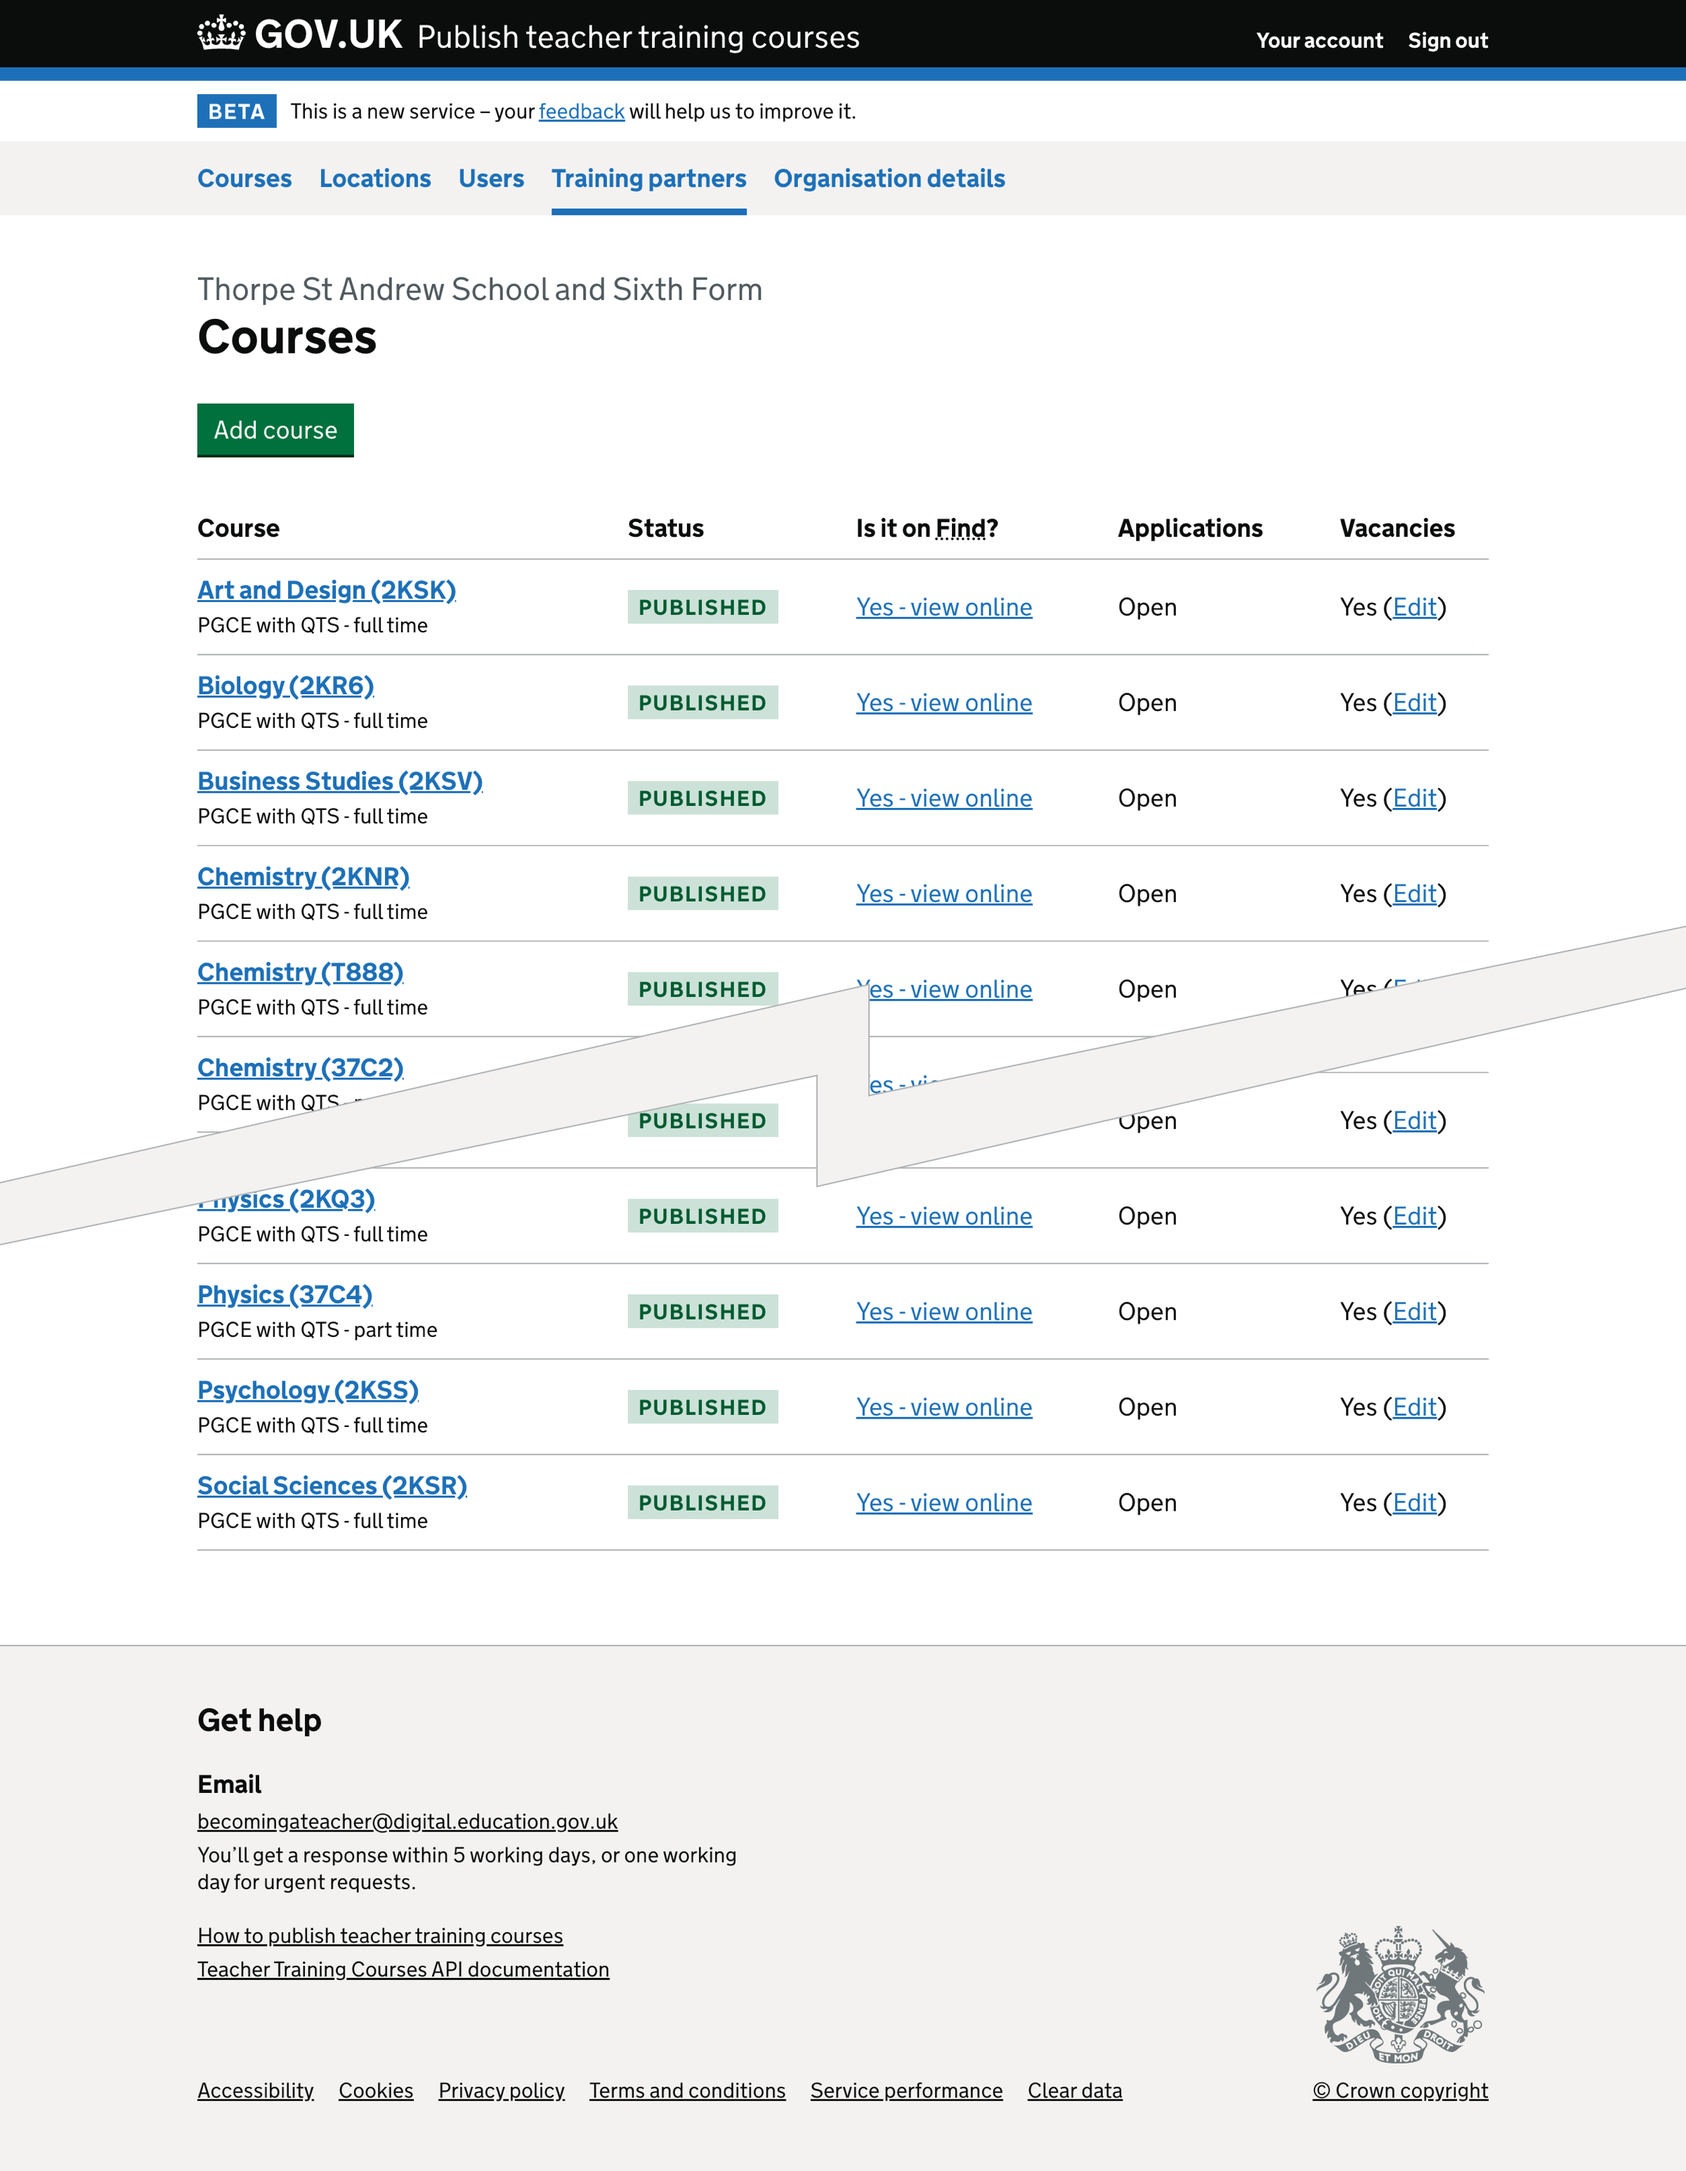
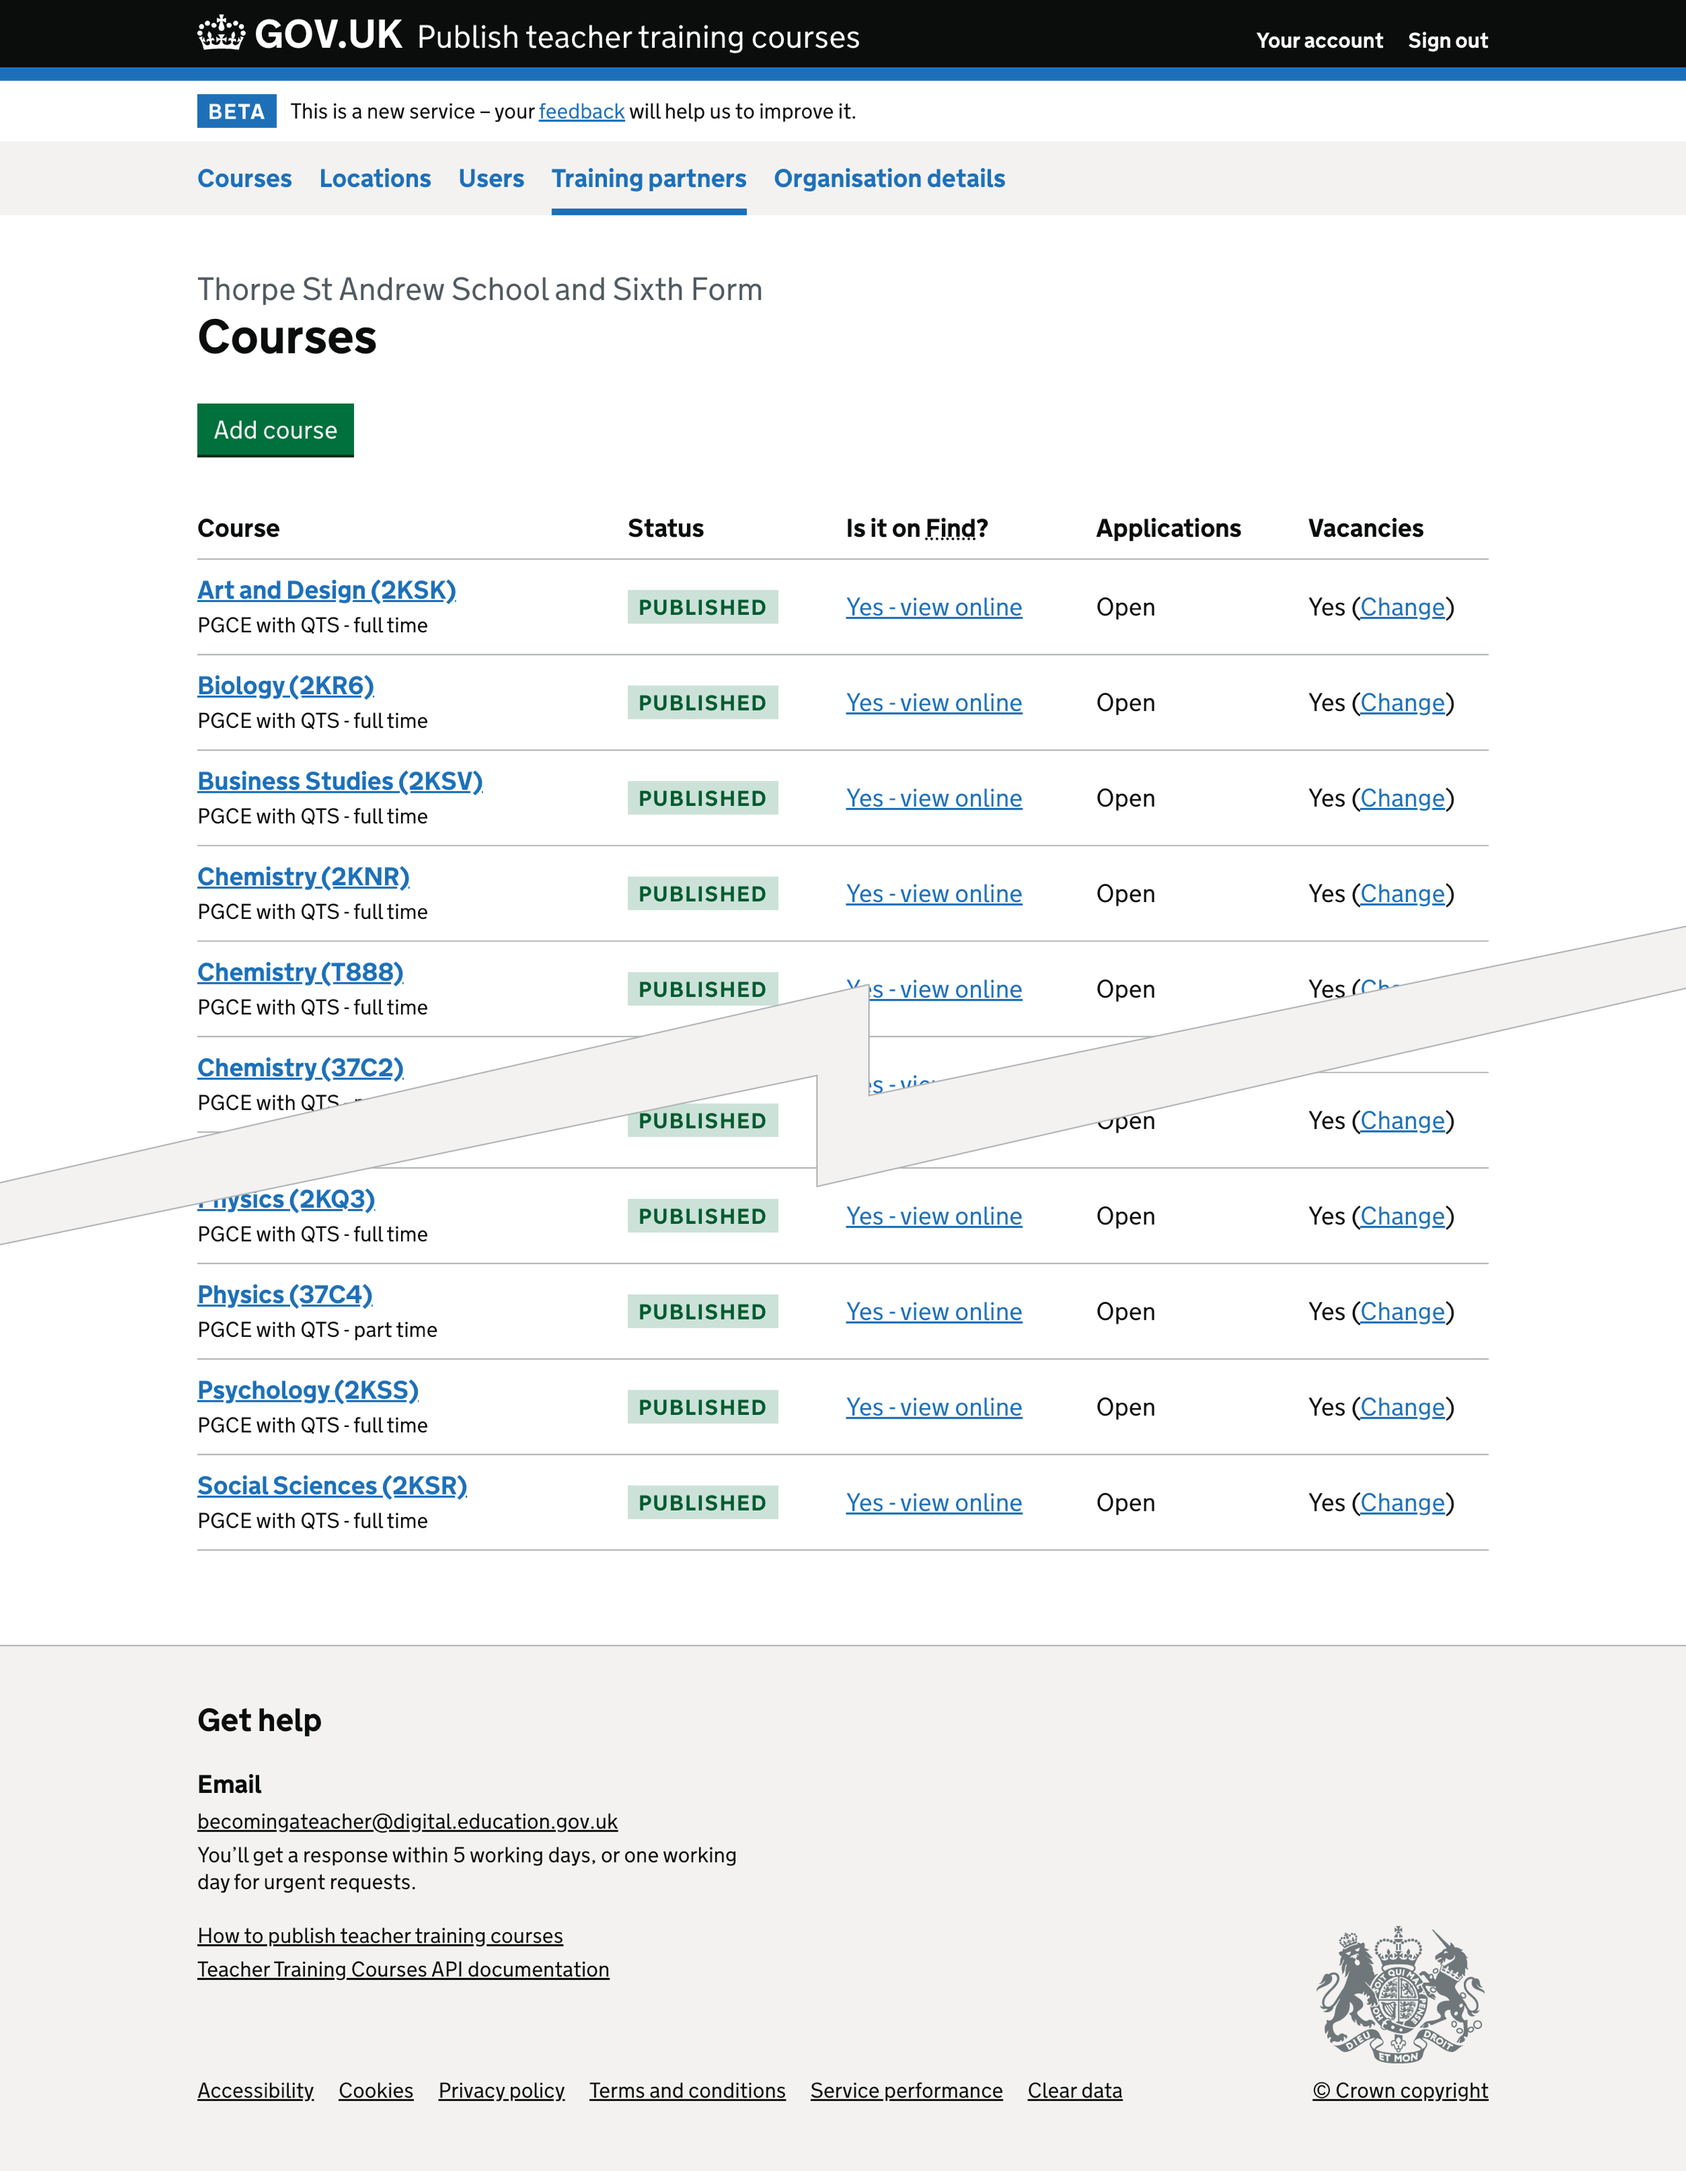
Update content following review

diff --git a/app/posts/publish-teacher-training-courses/2022-05-04-giving-accredited-bodies-the-ability-to-manage-courses-they-ratify.md b/app/posts/publish-teacher-training-courses/2022-05-04-giving-accredited-bodies-the-ability-to-manage-courses-they-ratify.md
@@ -48,7 +48,7 @@ Permitted actions include:
 We made these changes so that users of the accredited body:
 
 - do not need to be members of their training partners to be able to manage courses they ratify
-- can see which permissions they have
+- can see which actions have been given to them by their training partners
 
 ## How it works
 
@@ -73,5 +73,5 @@ On the course details pages, if the course is in a ‘draft’ state, we show:
 If the course is published, we show links for:
 
 - View on find
-- Edit vacancies - if the accredited body has the ‘Change course vacancies’ permission
+- Change vacancies - if the accredited body has the ‘Change course vacancies’ permission
 - Withdraw course - if the accredited body has the ‘Withdraw course’ permission
